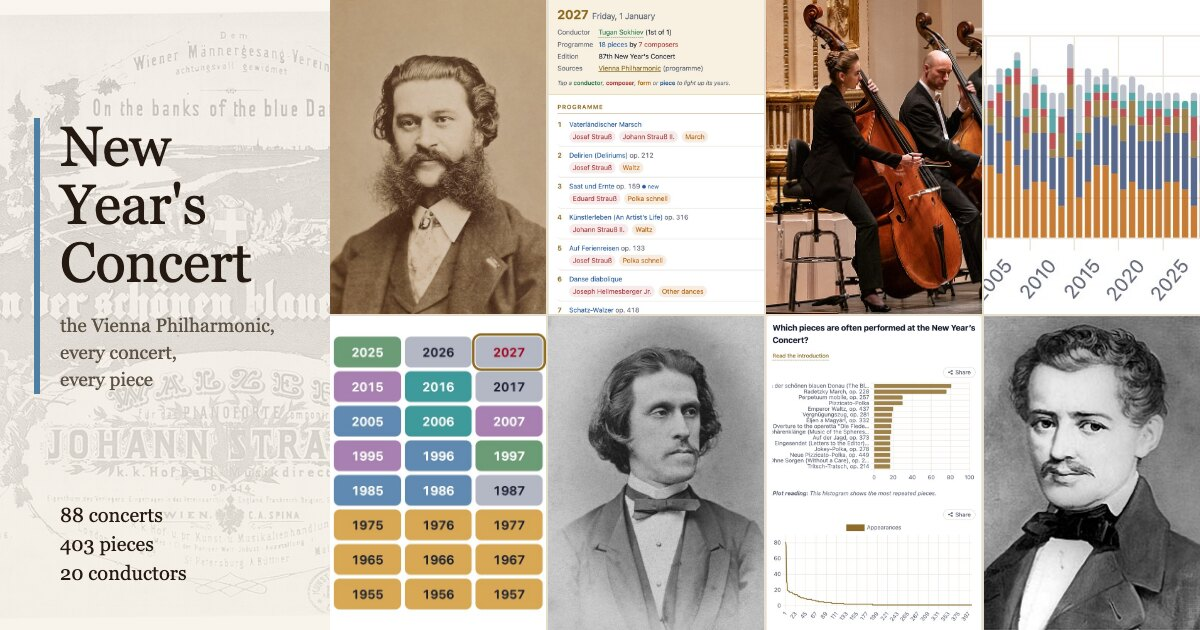
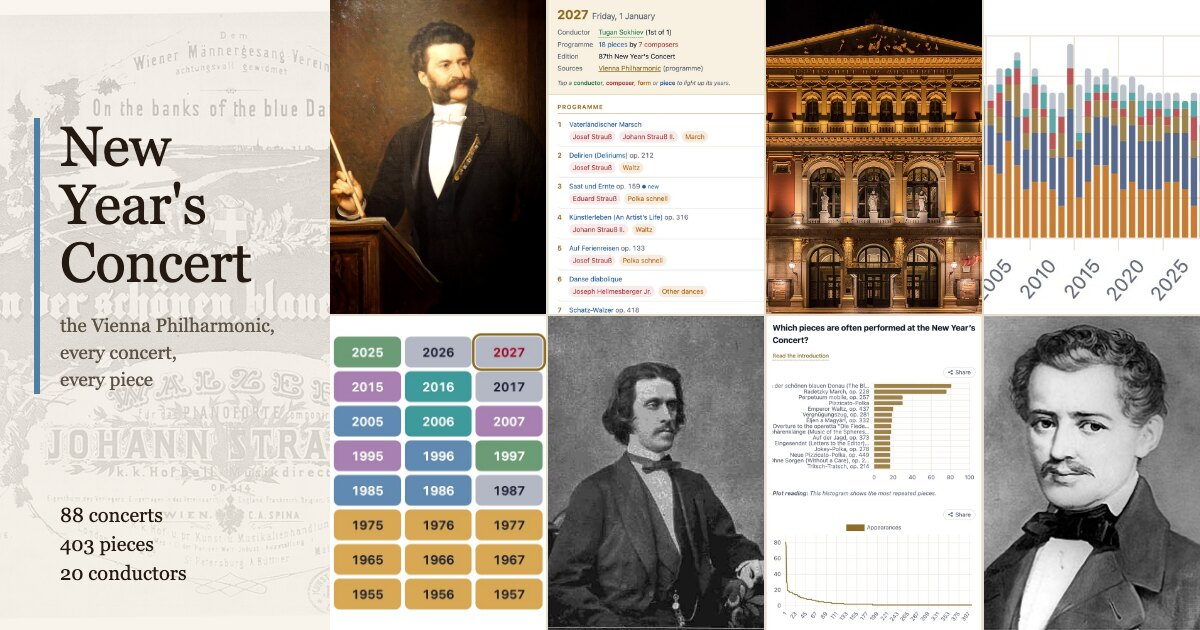
nyc 1.7.3: composer and conductor debuts are chips (colour by new composers; every conductor's first concert lit); thumbnail with the chosen pictures

Changed region(s): [[0.2775, 0.0, 0.8325, 1.0]]

diff --git a/projects/nyc/app.js b/projects/nyc/app.js
@@ -3,8 +3,8 @@
 // nyc/performances.js (notes about a piece in a given concert; prototype only).
 "use strict";
 
-const DATA_V = "1.7.2";
-const BUILD_AT = "2026-11-01 18:32";
+const DATA_V = "1.7.3";
+const BUILD_AT = "2026-11-01 18:40";
 
 // --- indexes ---------------------------------------------------------------------------------
 const CONCERTS = [...concerts].sort((a, b) => a.year - b.year);
@@ -59,6 +59,12 @@ const byComposer = (p, cid) => namesOf(p).includes(COMPOSER.get(cid).name);
 const people = c => new Set(c.program.piece_id.flatMap(p => namesOf(PIECE.get(p))));
 const firstYearOf = new Map();
 CONCERTS.forEach(c => c.program.piece_id.forEach(p => { if (!firstYearOf.has(p)) firstYearOf.set(p, c.year); }));
+// the first concert of each composer (by name, so a joint work counts for each brother) and of each conductor
+const firstYearOfName = new Map();
+CONCERTS.forEach(c => people(c).forEach(n => { if (!firstYearOfName.has(n)) firstYearOfName.set(n, c.year); }));
+const debutsOf = c => [...people(c)].filter(n => firstYearOfName.get(n) === c.year);
+const firstYearOfConductor = new Map();
+CONCERTS.forEach(c => { if (!firstYearOfConductor.has(c.conductor_id)) firstYearOfConductor.set(c.conductor_id, c.year); });
 const GOLD = "#8f6d2d";            // the year buttons of the published page
 const METRICS = {
   none: { label: "None", kind: "plain" },
@@ -67,6 +73,8 @@ const METRICS = {
   composers: { label: "Composers", kind: "seq", unit: "composers", value: c => people(c).size },
   fresh: { label: "New pieces", kind: "seq", unit: "pieces new to the concert",
     value: c => c.program.piece_id.filter(p => firstYearOf.get(p) === c.year).length },
+  debuts: { label: "New composers", kind: "seq", unit: "composers at their first New Year's Concert",
+    value: c => debutsOf(c).length },
   beyond: { label: "Beyond Strauss", kind: "seq", unit: "% by composers outside the Strauss family",
     value: c => Math.round(100 * c.program.piece_id.filter(p => !/Strau(ß|ss)/.test(PIECE.get(p).composer)).length / c.program.piece_id.length) },
   // minutes of music on the official disc, only where the disc has every piece of that concert
@@ -140,7 +148,7 @@ function hashOf(s) {
   if (s.view !== "concerts") return "#" + s.view;
   if (!s.card) return "#" + s.year;
   const c = s.card;
-  return "#" + s.year + "/" + (c.kind === "perf" ? c.pos + (c.arr ? "/arr" : "") : c.kind === "conductor" ? "conductor" : c.kind === "fresh" ? "new" : `${c.kind}-${encodeURIComponent(c.id)}`);
+  return "#" + s.year + "/" + (c.kind === "perf" ? c.pos + (c.arr ? "/arr" : "") : c.kind === "conductor" ? "conductor" : c.kind === "fresh" ? "new" : c.kind === "debuts" ? "debuts" : c.kind === "cdebuts" ? "conductor-debuts" : `${c.kind}-${encodeURIComponent(c.id)}`);
 }
 function readHash() {
   const raw = decodeURIComponent(location.hash.slice(1));
@@ -162,6 +170,8 @@ function readHash() {
     if (/^\d+$/.test(sel)) card = { kind: "perf", pos: Number(sel), arr: raw.split("/")[2] === "arr" };
     else if (sel === "conductor") card = { kind: "conductor", id: conductorIdOf(year) };
     else if (sel === "new") card = { kind: "fresh" };
+    else if (sel === "debuts") card = { kind: "debuts" };
+    else if (sel === "conductor-debuts") card = { kind: "cdebuts" };
     else {
       const m = sel.match(/^(piece|composer)-(\d+)$/);
       const t = sel.match(/^type-(.+)$/);
@@ -383,8 +393,10 @@ function pieceAside(c, pos) {
 function composerAside(c, name) {
   if (FIRST_YEAR_OF_NAME.get(name) !== c.year) return "";
   const once = CONCERTS.filter(x => x.program.piece_id.some(pid => namesOf(PIECE.get(pid)).includes(name))).length === 1;
-  return once && c.year < CONCERTS[N - 1].year ? ' <span class="tag tag-new tag-comp" title="The only concert with music by this composer">only time</span>'
-    : ' <span class="tag tag-new tag-comp" title="First concert with music by this composer">debut</span>';
+  // a chip, like "new": it opens the concert's debuts and colours the years by how many each had
+  const on = state.card && state.card.kind === "debuts" && state.year === c.year ? " on" : "";
+  return once && c.year < CONCERTS[N - 1].year ? ` <button type="button" class="chip k k-debut${on}" title="The only concert with music by this composer: see this year's debuts">only time</button>`
+    : ` <button type="button" class="chip k k-debut${on}" title="First concert with music by this composer: see this year's debuts">debut</button>`;
 }
 // The arrangement is a chip (it can be clicked: it lights the years of the same arrangement); a soloist or
 // a ballet stays a quiet tag.
@@ -404,6 +416,7 @@ function yearsOf(k) {
   if (k.kind === "piece") return new Set((PLAYS.get(k.id) || []).map(x => x.year));
   if (k.kind === "composer") return fromPieces(p => byComposer(p, k.id));
   if (k.kind === "type") return fromPieces(p => p.type === k.id);
+  if (k.kind === "cdebuts") return new Set(firstYearOfConductor.values());
   if (k.kind === "conductor") return new Set([...CONCERTS.filter(x => x.conductor_id === k.id).map(x => x.year),
     ...[...ANNOUNCED.values()].filter(a => a.conductor_id === k.id).map(a => a.year)]);
   return null;
@@ -415,6 +428,7 @@ function rowMatches(k, pos, p) {
   if (k.kind === "composer") return byComposer(p, k.id);
   if (k.kind === "type") return p.type === k.id;
   if (k.kind === "fresh") return firstYearOf.get(p.piece_id) === state.year;
+  if (k.kind === "debuts") return namesOf(p).some(n => firstYearOfName.get(n) === state.year);
   return false;
 }
 function drawAnnounced(a) {
@@ -489,7 +503,8 @@ function drawConcert() {
   let html = `<div class="c-head">${shareButton("Share this concert")}
       <h1>${c.year} <span class="date">${esc(day)}</span></h1>
       <dl class="c-facts">
-        <dt>Conductor</dt><dd class="who"><button type="button" data-card="conductor">${esc(cond.name)}</button> (${ordinal(nth)} of ${condCount.length})</dd>
+        <dt>Conductor</dt><dd class="who"><button type="button" data-card="conductor">${esc(cond.name)}</button> (${ordinal(nth)} of ${condCount.length})${firstYearOfConductor.get(c.conductor_id) === c.year
+          ? ` <button type="button" class="chip k k-cdebut${k && k.kind === "cdebuts" ? " on" : ""}" title="This conductor's first New Year's Concert: see every conductor's first">debut</button>` : ""}</dd>
         <dt>Programme</dt><dd><span class="e-piece">${c.program.piece_id.length} pieces</span> by <span class="e-composer">${comps.size} composers</span></dd>
         <dt>Edition</dt><dd>${edition}</dd>
         ${special ? `<dt>Billed as</dt><dd><i>${esc(special.replace(/\//g, " / "))}</i></dd>` : ""}
@@ -523,6 +538,8 @@ $("concert").addEventListener("click", e => {
   const ver = e.target.closest(".k-ver");
   if (ver) return go(state.year, { kind: "perf", pos: Number(ver.dataset.pos), arr: true });
   if (e.target.closest(".k-new")) { setColourBy("fresh"); return go(state.year, { kind: "fresh" }); }
+  if (e.target.closest(".k-debut")) { setColourBy("debuts"); return go(state.year, { kind: "debuts" }); }
+  if (e.target.closest(".k-cdebut")) { setColourBy("conductor"); return go(state.year, { kind: "cdebuts" }); }
   const row = e.target.closest(".row");
   if (row) return go(state.year, { kind: "perf", pos: Number(row.dataset.pos) });
   if (e.target.closest('[data-card="conductor"]')) go(state.year, { kind: "conductor", id: conductorIdOf(state.year) });
@@ -813,6 +830,24 @@ function freshCard(c) {
       The years are coloured by how many new pieces each concert had.</p>
     ${rows.length ? `<ol class="fresh-list">${rows.map(([pid, pos]) => `<li><button type="button" class="k" data-pos="${pos}">${esc(PIECE.get(pid).piece)}</button> <span class="small">${esc(namesOf(PIECE.get(pid)).join(", "))}</span></li>`).join("")}</ol>` : ""}`;
 }
+// The composers heard at the concert for the first time; the years are coloured by the same count.
+function debutsCard(c) {
+  const names = debutsOf(c), n = names.length, value = METRICS.debuts.value;
+  const more = CONCERTS.filter(x => value(x) > n).length, top = Math.max(...CONCERTS.slice(1).map(value));
+  return `<p class="k-eyebrow">New composers</p><h2>${n} ${n === 1 ? "debut" : "debuts"} in ${c.year}</h2>
+    <p class="small">Composers heard at the New Year's Concert for the first time.
+      ${more === 0 ? "No concert brought more" : `${more} concert${more === 1 ? "" : "s"} brought more`} (the most after the first concert: ${top}).
+      The years are coloured by how many composers each concert brought.</p>
+    <ol class="fresh-list">${names.map(nm => { const id = NAME2ID.get(nm); return `<li>${id ? `<button type="button" class="k k-c" data-go="composer-${id}">${esc(nm)}</button>` : esc(nm)}</li>`; }).join("")}</ol>`;
+}
+// Every conductor's first New Year's Concert, lit on the years in the conductors' colours.
+function conductorDebutsCard(c) {
+  const rows = [...firstYearOfConductor.entries()].map(([id, y]) => ({ id, y }));
+  return `<p class="k-eyebrow">Conductors' debuts</p><h2>Every conductor's first concert</h2>
+    <p class="small">${rows.length} conductors: the lit years are the first New Year's Concert of each.</p>
+    <ol class="fresh-list">${ordered(rows).map(r => `<li><button type="button" class="link" data-year="${r.y}">${r.y}</button>
+      <button type="button" class="k k-c" data-go="conductor-${r.id}">${esc(CONDUCTOR.get(r.id).name)}</button></li>`).join("")}</ol>`;
+}
 // Lists of concerts in a card (a conductor's, a piece's): newest first by default, and the reader can turn
 // them round. The choice belongs to the device (localStorage), not to the link.
 let listOrder = "newest";
@@ -825,7 +860,7 @@ function drawCard() {
   const c = BY_YEAR.get(state.year);
   const k = state.card;
   document.body.classList.toggle("card-open", !!k);
-  const family = !k ? "" : { perf: "piece", piece: "piece", composer: "composer", type: "form", conductor: "conductor", fresh: "piece" }[k.kind];
+  const family = !k ? "" : { perf: "piece", piece: "piece", composer: "composer", type: "form", conductor: "conductor", fresh: "piece", debuts: "composer", cdebuts: "conductor" }[k.kind];
   if (family) document.body.dataset.kind = family; else delete document.body.dataset.kind;
   if (!k) {
     body.innerHTML = `<p class="hint">Tap a piece to see it as it was played that year, and across all the concerts.</p>`;
@@ -837,6 +872,8 @@ function drawCard() {
   else if (k.kind === "type") body.innerHTML = typeCard(k.id);
   else if (k.kind === "conductor") body.innerHTML = conductorCard(k.id);
   else if (k.kind === "fresh") body.innerHTML = freshCard(c);
+  else if (k.kind === "debuts") body.innerHTML = debutsCard(c);
+  else if (k.kind === "cdebuts") body.innerHTML = conductorDebutsCard(c);
   body.insertAdjacentHTML("afterbegin", shareButton("Share this card"));
   paintStrip(yearsOf(k), sameArrangement(k));
   $("card").scrollTop = 0;
@@ -968,6 +1005,8 @@ function shareHash(s) {
   if (!c) return hashOf(s);
   if (c.kind === "perf") return "#" + s.year + "/" + c.pos;
   if (c.kind === "fresh") return "#" + s.year + "/new";
+  if (c.kind === "debuts") return "#" + s.year + "/debuts";
+  if (c.kind === "cdebuts") return "#" + s.year + "/conductor-debuts";
   if (c.kind === "type") return "#type-" + encodeURIComponent(c.id);
   return "#" + c.kind + "-" + c.id;
 }

diff --git a/projects/nyc.html b/projects/nyc.html
@@ -15,25 +15,25 @@
   <link rel="icon" href="/assets/favicons/main/favicon.ico" type="image/x-icon">
   <link rel="icon" type="image/png" sizes="32x32" href="/assets/favicons/main/favicon-32x32.png">
   <meta name="theme-color" content="#f4eee2">
-  <link rel="stylesheet" href="nyc/style.css?v=1.7.2">
-  <script src="nyc/catalogue.js?v=1.7.2"></script>
-  <script src="nyc/composers.js?v=1.7.2"></script>
-  <script src="nyc/conductors.js?v=1.7.2"></script>
-  <script src="nyc/concerts.js?v=1.7.2"></script>
-  <script src="nyc/performances.js?v=1.7.2"></script>
-  <script src="nyc/announced.js?v=1.7.2"></script>
-  <script src="nyc/concert_meta.js?v=1.7.2"></script>
-  <script src="nyc/portraits.js?v=1.7.2"></script>
-  <script src="nyc/recordings.js?v=1.7.2"></script>
-  <script src="nyc/links.js?v=1.7.2"></script>
+  <link rel="stylesheet" href="nyc/style.css?v=1.7.3">
+  <script src="nyc/catalogue.js?v=1.7.3"></script>
+  <script src="nyc/composers.js?v=1.7.3"></script>
+  <script src="nyc/conductors.js?v=1.7.3"></script>
+  <script src="nyc/concerts.js?v=1.7.3"></script>
+  <script src="nyc/performances.js?v=1.7.3"></script>
+  <script src="nyc/announced.js?v=1.7.3"></script>
+  <script src="nyc/concert_meta.js?v=1.7.3"></script>
+  <script src="nyc/portraits.js?v=1.7.3"></script>
+  <script src="nyc/recordings.js?v=1.7.3"></script>
+  <script src="nyc/links.js?v=1.7.3"></script>
   <!-- the "Analysis and context" tab, as on the published page: Chart.js (pinned) + its own helpers -->
   <script src="https://cdn.jsdelivr.net/npm/chart.js@4.4.1/dist/chart.umd.min.js"></script>
-  <script src="nyc/chart_theme.js?v=1.7.2"></script>
-  <script src="nyc/legacy_charts.js?v=1.7.2"></script>
+  <script src="nyc/chart_theme.js?v=1.7.3"></script>
+  <script src="nyc/legacy_charts.js?v=1.7.3"></script>
   <script>
     var total_pieces_all_concerts = concerts.reduce((s, c) => s + c.program.piece_id.length, 0);
   </script>
-  <script src="nyc/app.js?v=1.7.2" defer></script>
+  <script src="nyc/app.js?v=1.7.3" defer></script>
 </head>
 <body>
   <nav id="navbar">

diff --git a/projects/nyc/style.css b/projects/nyc/style.css
@@ -188,6 +188,13 @@ ol.prog { list-style: none; margin: 0; padding: 0; }
 .chip.k-new::before { content: "●"; font-size: .8em; margin-right: 3px; vertical-align: .05em; }
 .chip.k-new:hover, .chip.k-new:focus-visible { background: color-mix(in srgb, var(--c-piece) 26%, var(--paper)); }
 .chip.k-new.on { background: var(--c-piece); color: #fff; }
+/* the same for a composer's first concert (red) and a conductor's (green) */
+.chip.k-debut, .chip.k-cdebut { --d: var(--c-composer); color: var(--d); background: color-mix(in srgb, var(--d) 14%, var(--paper)); }
+.chip.k-cdebut { --d: var(--c-conductor); }
+.chip.k-debut::before, .chip.k-cdebut::before { content: "●"; font-size: .8em; margin-right: 3px; vertical-align: .05em; }
+.chip.k-debut:hover, .chip.k-cdebut:hover { background: color-mix(in srgb, var(--d) 24%, var(--paper)); }
+.chip.k-debut.on, .chip.k-cdebut.on { background: var(--d); color: #fff; }
+.fresh-list .k-c { text-align: left; }
 .fresh-list { margin: 10px 0 0; padding-left: 20px; }
 .fresh-list li { margin: 4px 0; }
 .fresh-list .k { color: var(--c-piece); text-align: left; }

diff --git a/projects/nyc_old/functions.js b/projects/nyc_old/functions.js
@@ -6,7 +6,7 @@ function editionText(year, verb) {
   if (year === 1939) return "The concert of 31 December 1939 came before the numbered series: the Vienna Philharmonic counts 1 January 1941 as its 1st New Year's Concert. ";
   return "The New Year's Concert " + year + " " + verb + " the " + getOrdinal(year - 1940) + " edition of the event. ";
 }
-const BUILD_AT = "2026-11-01 18:32";
+const BUILD_AT = "2026-11-01 18:40";
 document.addEventListener("DOMContentLoaded", () => {
   const b = document.getElementById("build");
   if (b) b.textContent = `v${DATA_V} · ${BUILD_AT}`;
